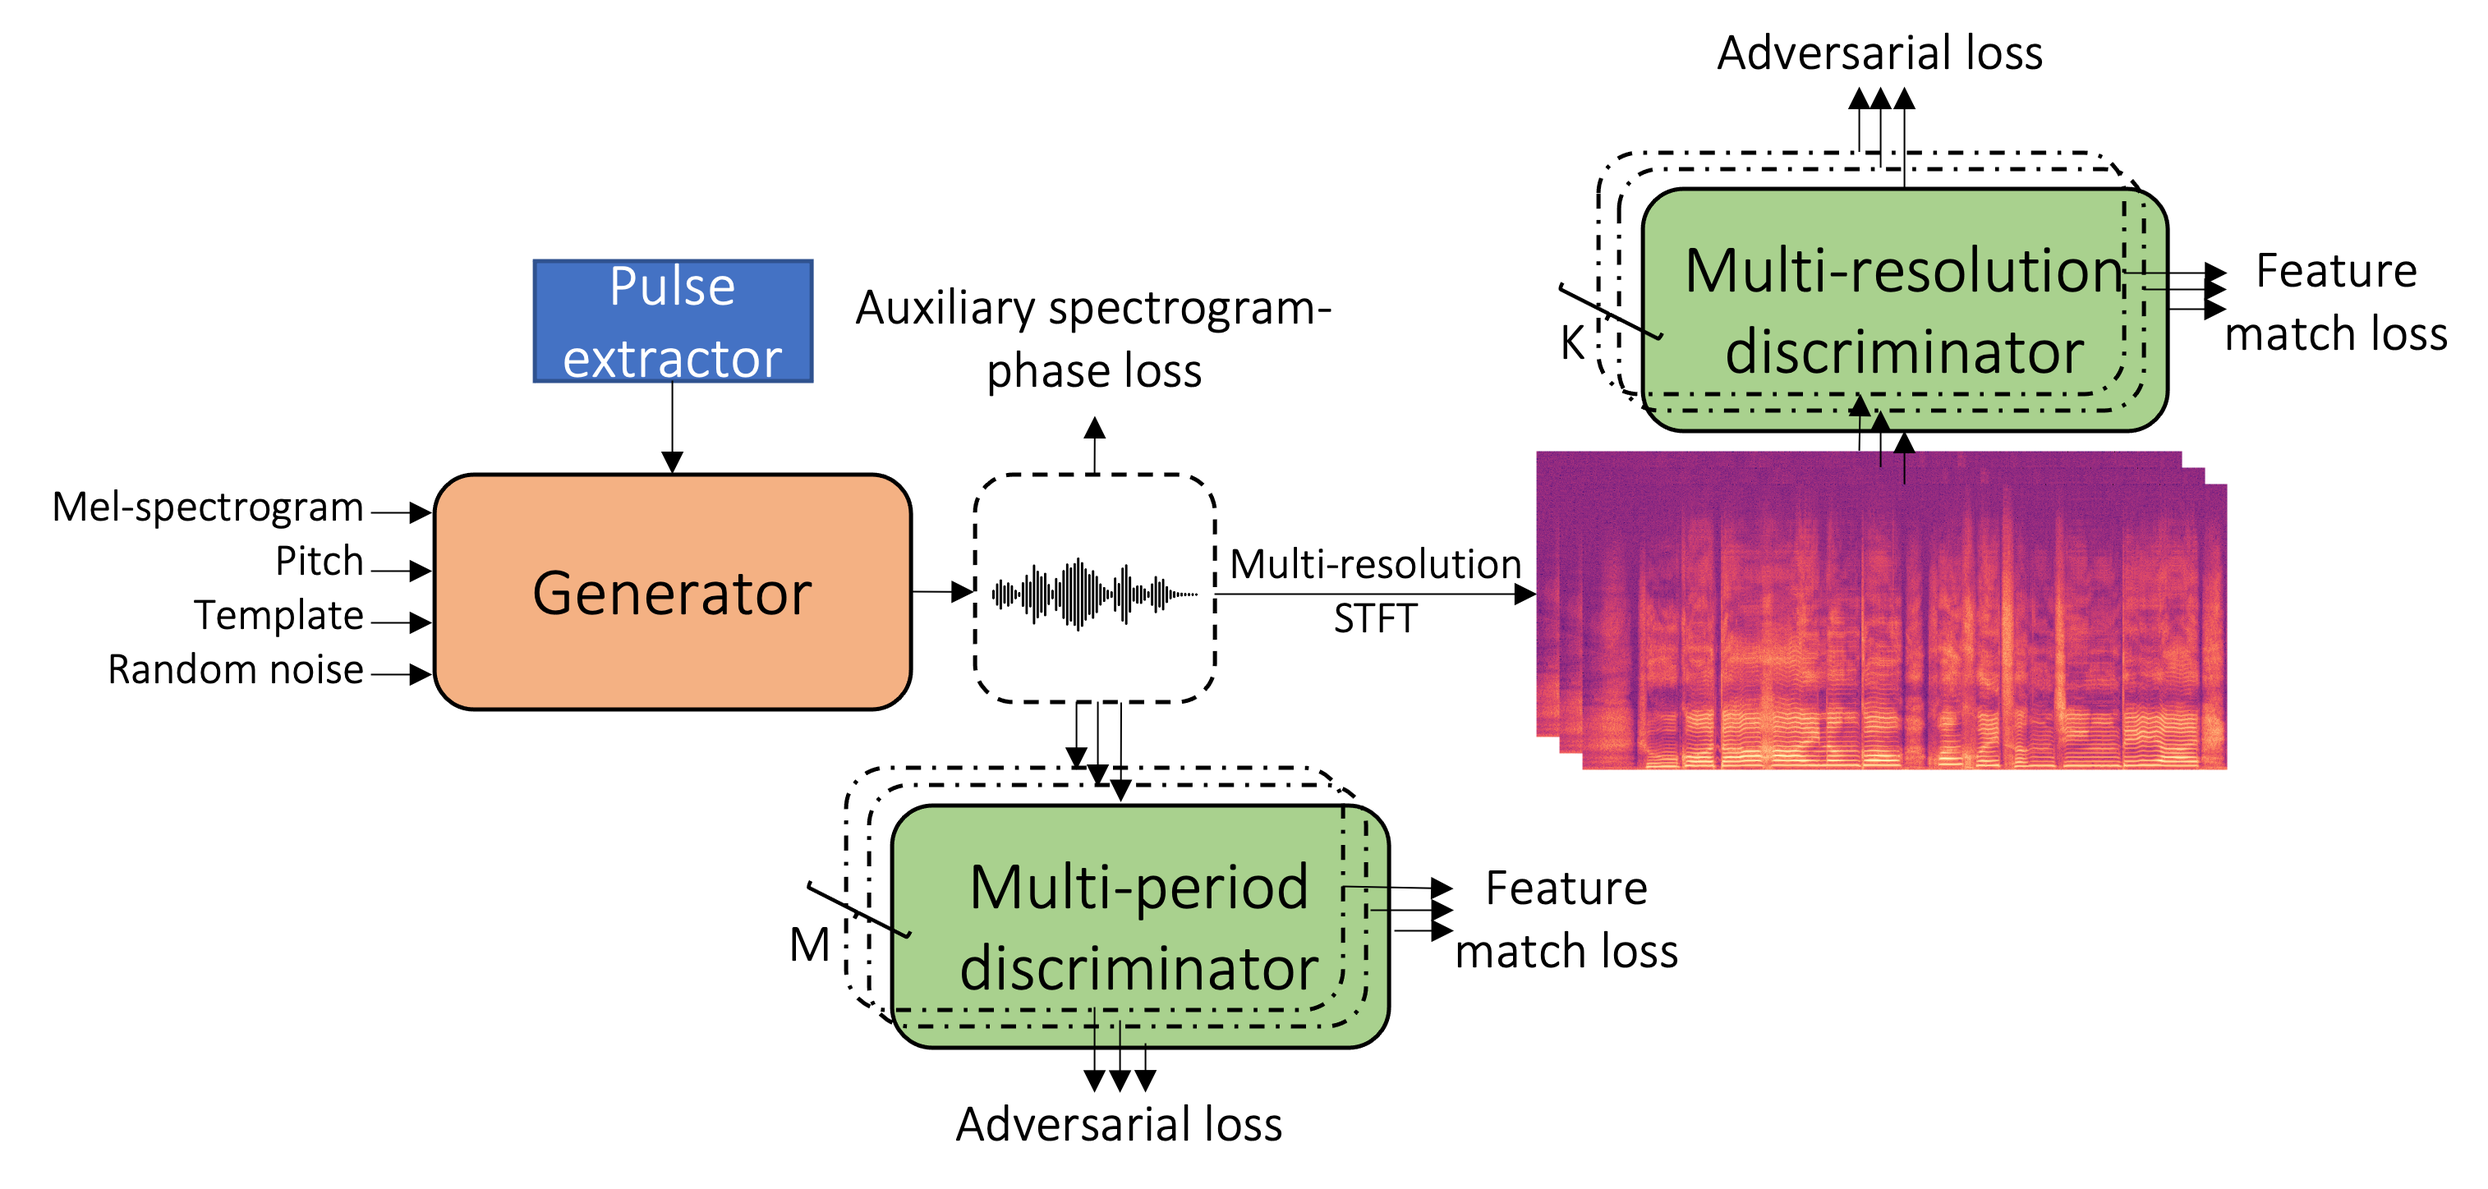
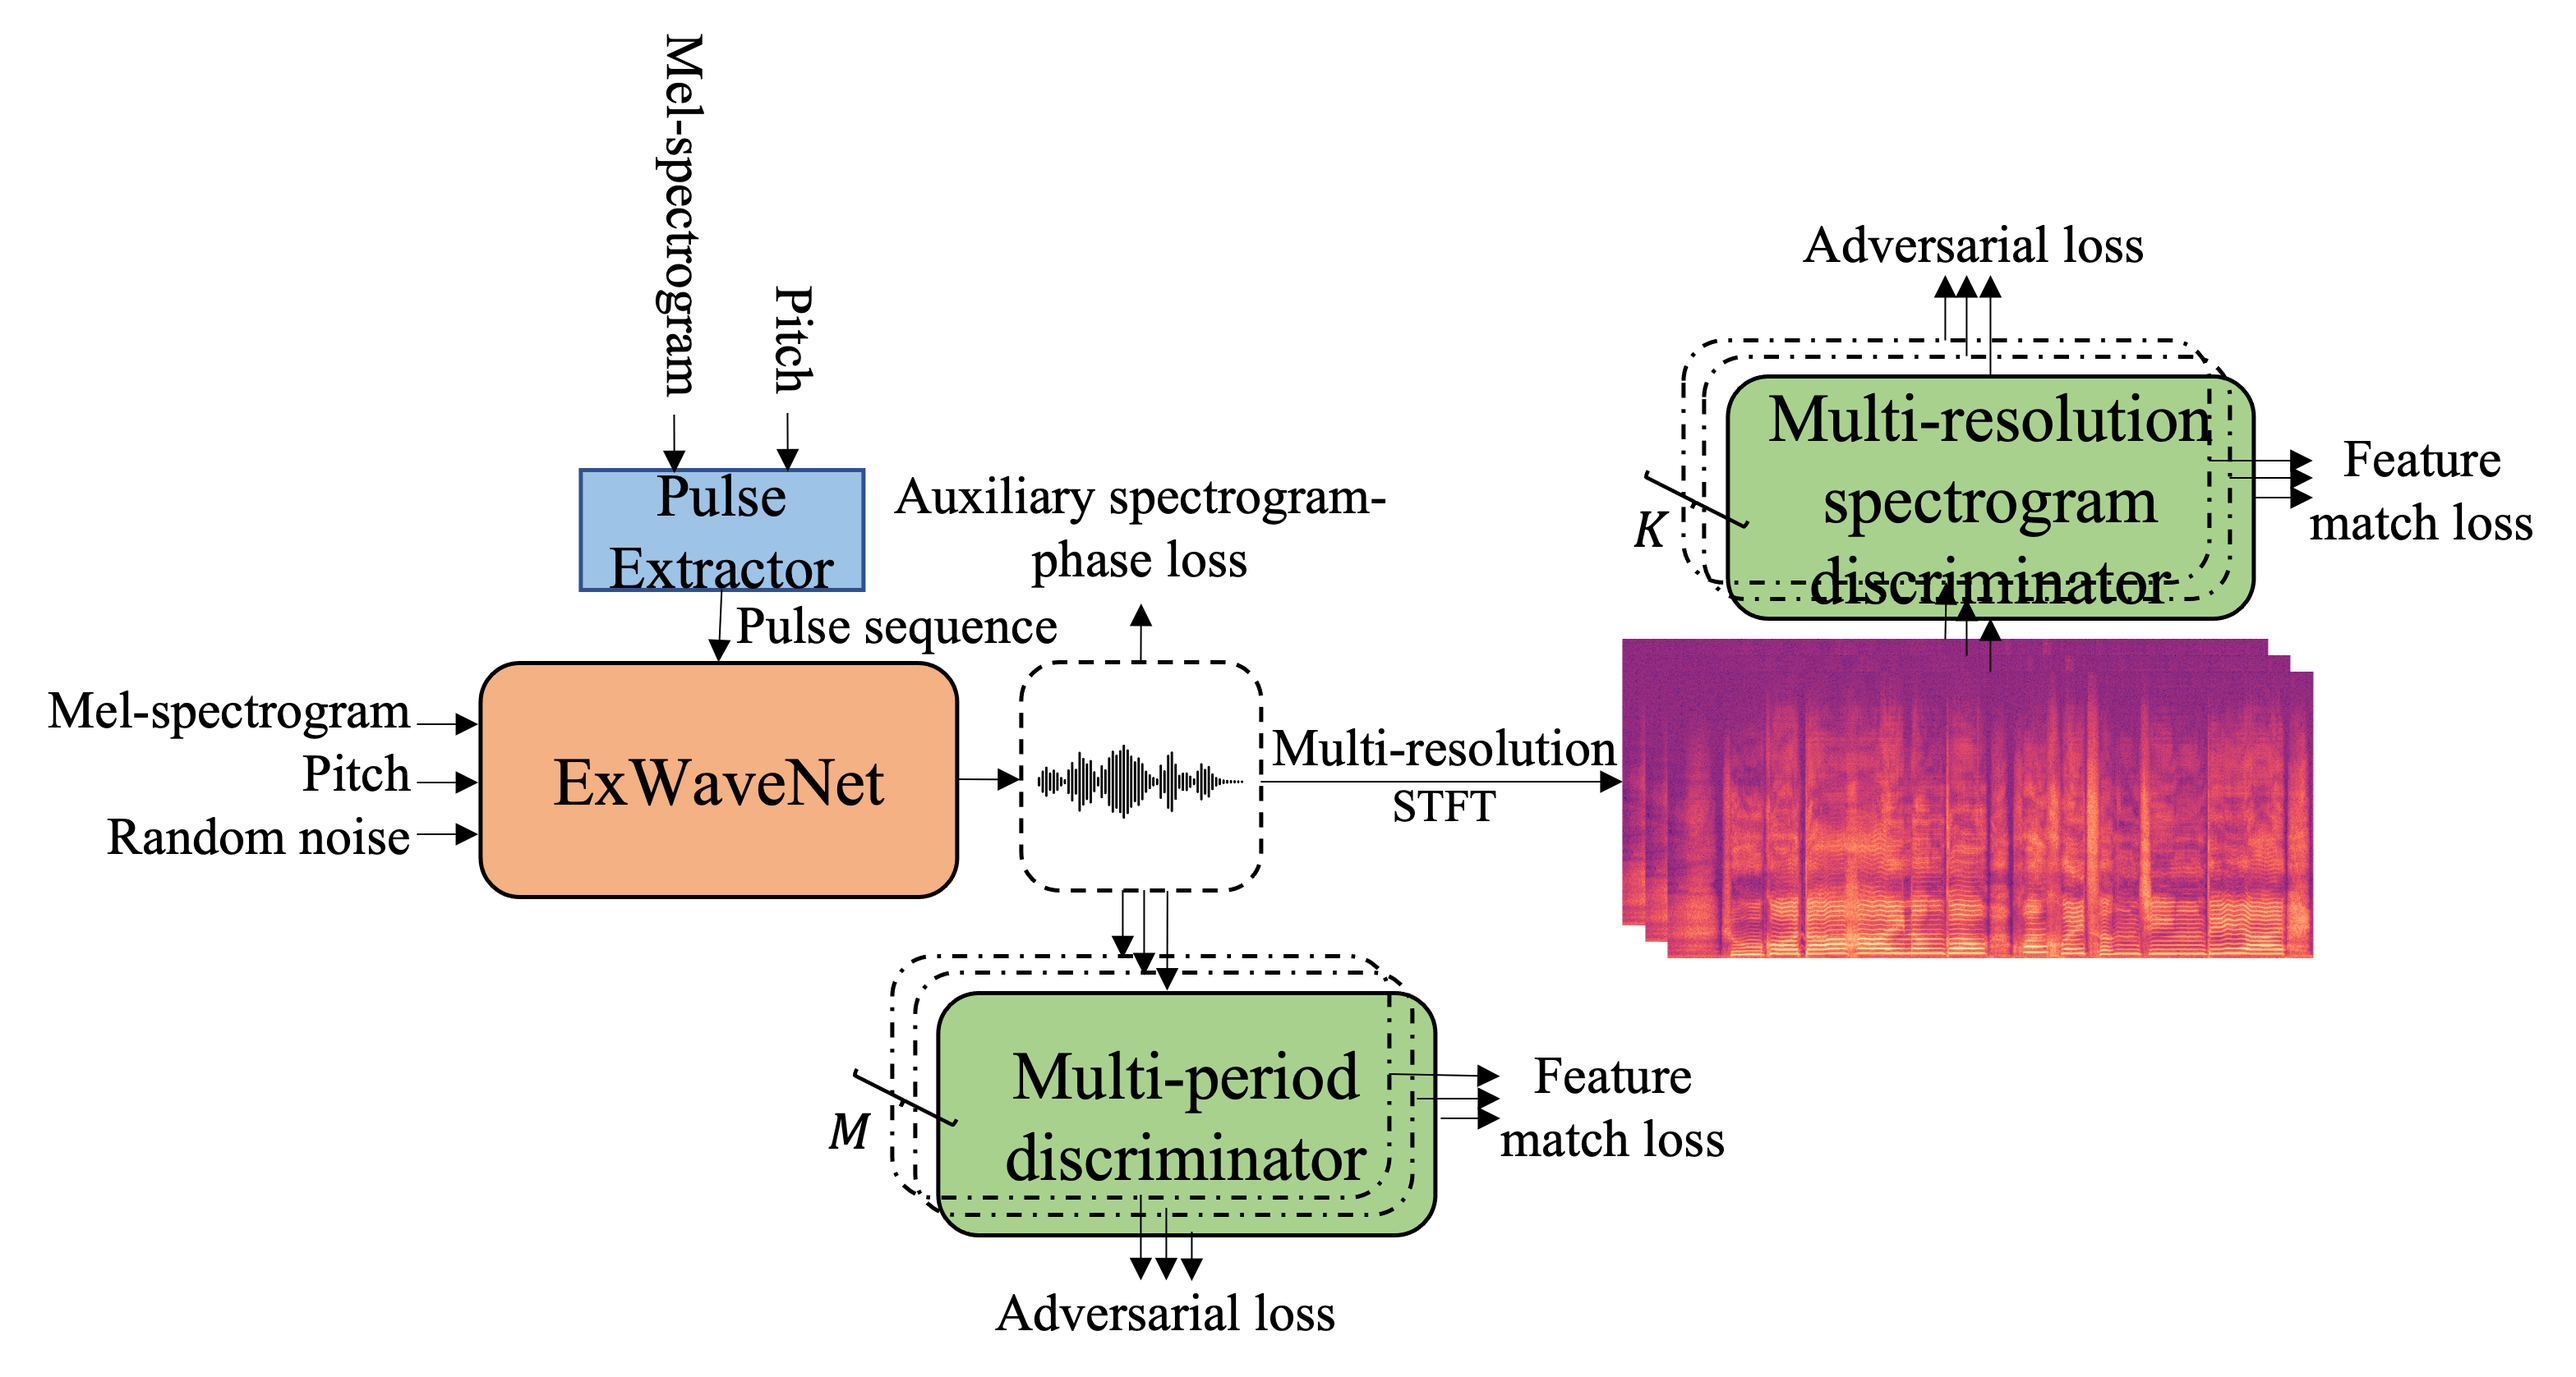
update hifi-wavegan

Changed region(s): [[0.0, 0.0311, 0.9931, 0.9634], [0.6827, 0.0311, 0.8379, 0.0932]]

diff --git a/hifi-wavegan/index.html b/hifi-wavegan/index.html
@@ -42,13 +42,12 @@
 -->
 <h2 id="abstract">Abstract</h2>
 <p>Entertainment-oriented singing voice synthesis (SVS) requires a vocoder to generate high-fidelity (e.g. 48kHz) audio. 
-  However, most text-to-speech (TTS) vocoders cannot work well in this scenario even if the neural vocoder for TTS has achieved significant progress. 
-  In this paper, we propose HiFi-WaveGAN which is designed for synthesizing the 48kHz high-quality singing voices from the full-band mel-spectrogram in real-time. 
-  Specifically, it consists of a generator improved from WaveNet, a multi-period discriminator same to HiFiGAN, and a multi-resolution spectrogram discriminator borrowed from UnivNet. 
-  To better reconstruct the high-frequency part from the full-band mel-spectrogram, we design a novel auxiliary spectrogram-phase loss to train the neural network, which can also accelerate the training process. 
-  The experimental result shows that our proposed HiFi-WaveGAN significantly outperforms other neural vocoders such as Parallel WaveGAN (PWG) and HiFiGAN in the mean opinion score (MOS) metric for the 48kHz SVS task. 
-  And a comparative study of HiFi-WaveGAN with/without phase loss term proves that phase loss indeed improves the training speed. 
-  Besides, we also compare the spectrogram generated by our HiFi-WaveGAN and PWG, which shows our HiFi-WaveGAN has a more powerful ability to model the high-frequency parts. </p>
+  However, most text-to-speech (TTS) vocoders cannot reconstruct the waveform well in this scenario. 
+  In this paper, we propose HiFi-WaveGAN to synthesize the 48kHz high-quality singing voices in real-time. 
+  Specifically, it consists of an Extended WaveNet served as a generator, a multi-period discriminator proposed in HiFiGAN, and a multi-resolution spectrogram discriminator borrowed from UnivNet. 
+  To better reconstruct the high-frequency part from the full-band mel-spectrogram, we incorporate a pulse extractor to generate the constraint for the synthesized waveform. 
+  Additionally, a novel auxiliary spectrogram-phase loss is proposed to further approximate the real distribution. 
+  The experimental results show that our proposed HiFi-WaveGAN obtains 4.23 in the mean opinion score (MOS) metric for the 48kHz SVS task, significantly outperforming other neural vocoders. </p>
 <h2 id="model-architecture">Model Architecture</h2>
   <img src="../images/hifi-wavegan/model-architecture.png" width="100%"/>
 <h2 id="audio-samples">Audio Samples</h2>
@@ -380,11 +379,11 @@
 <td style="text-align: center"><audio controls="controls" ><source src="../audio/fastspeech/audio/na/10.wav" autoplay/>Your browser does not support the audio element.</audio></td>
 </tr>
 </tbody></table> -->
-<h2 id="inference-speedup">Inference Speedup</h2>
+<h2 id="evaluation">Singing Voice Quality Evaluation</h2>
 <p>The evaluation experiments are conducted on the server with 12 Intel Xeon CPU, 256GB memory and 1 NVIDIA V100 GPU.</p>
 <table><thead>
 <tr>
-<th style="text-align: center">Inference Time And Mos </th>
+<th style="text-align: center">Quality Evaluation (objective and subjective) </th>
 </tr></thead><tbody>
 <tr>
 <td style="text-align: center">
@@ -392,6 +391,18 @@
 </td>
 </tr>
 </tbody></table>
+
+<h2 id="ablation study">Ablation Study</h2>
+<table><thead>
+  <tr>
+  <th style="text-align: center">Ablation Study</th>
+  </tr></thead><tbody>
+  <tr>
+  <td style="text-align: center">
+  <img src="../images/hifi-wavegan/ablation.png" width="100%"/>
+  </td>
+  </tr>
+  </tbody></table>
 <!-- ## Model Hyperparameters
 
 \ | Transformer TTS   |  Our Model
